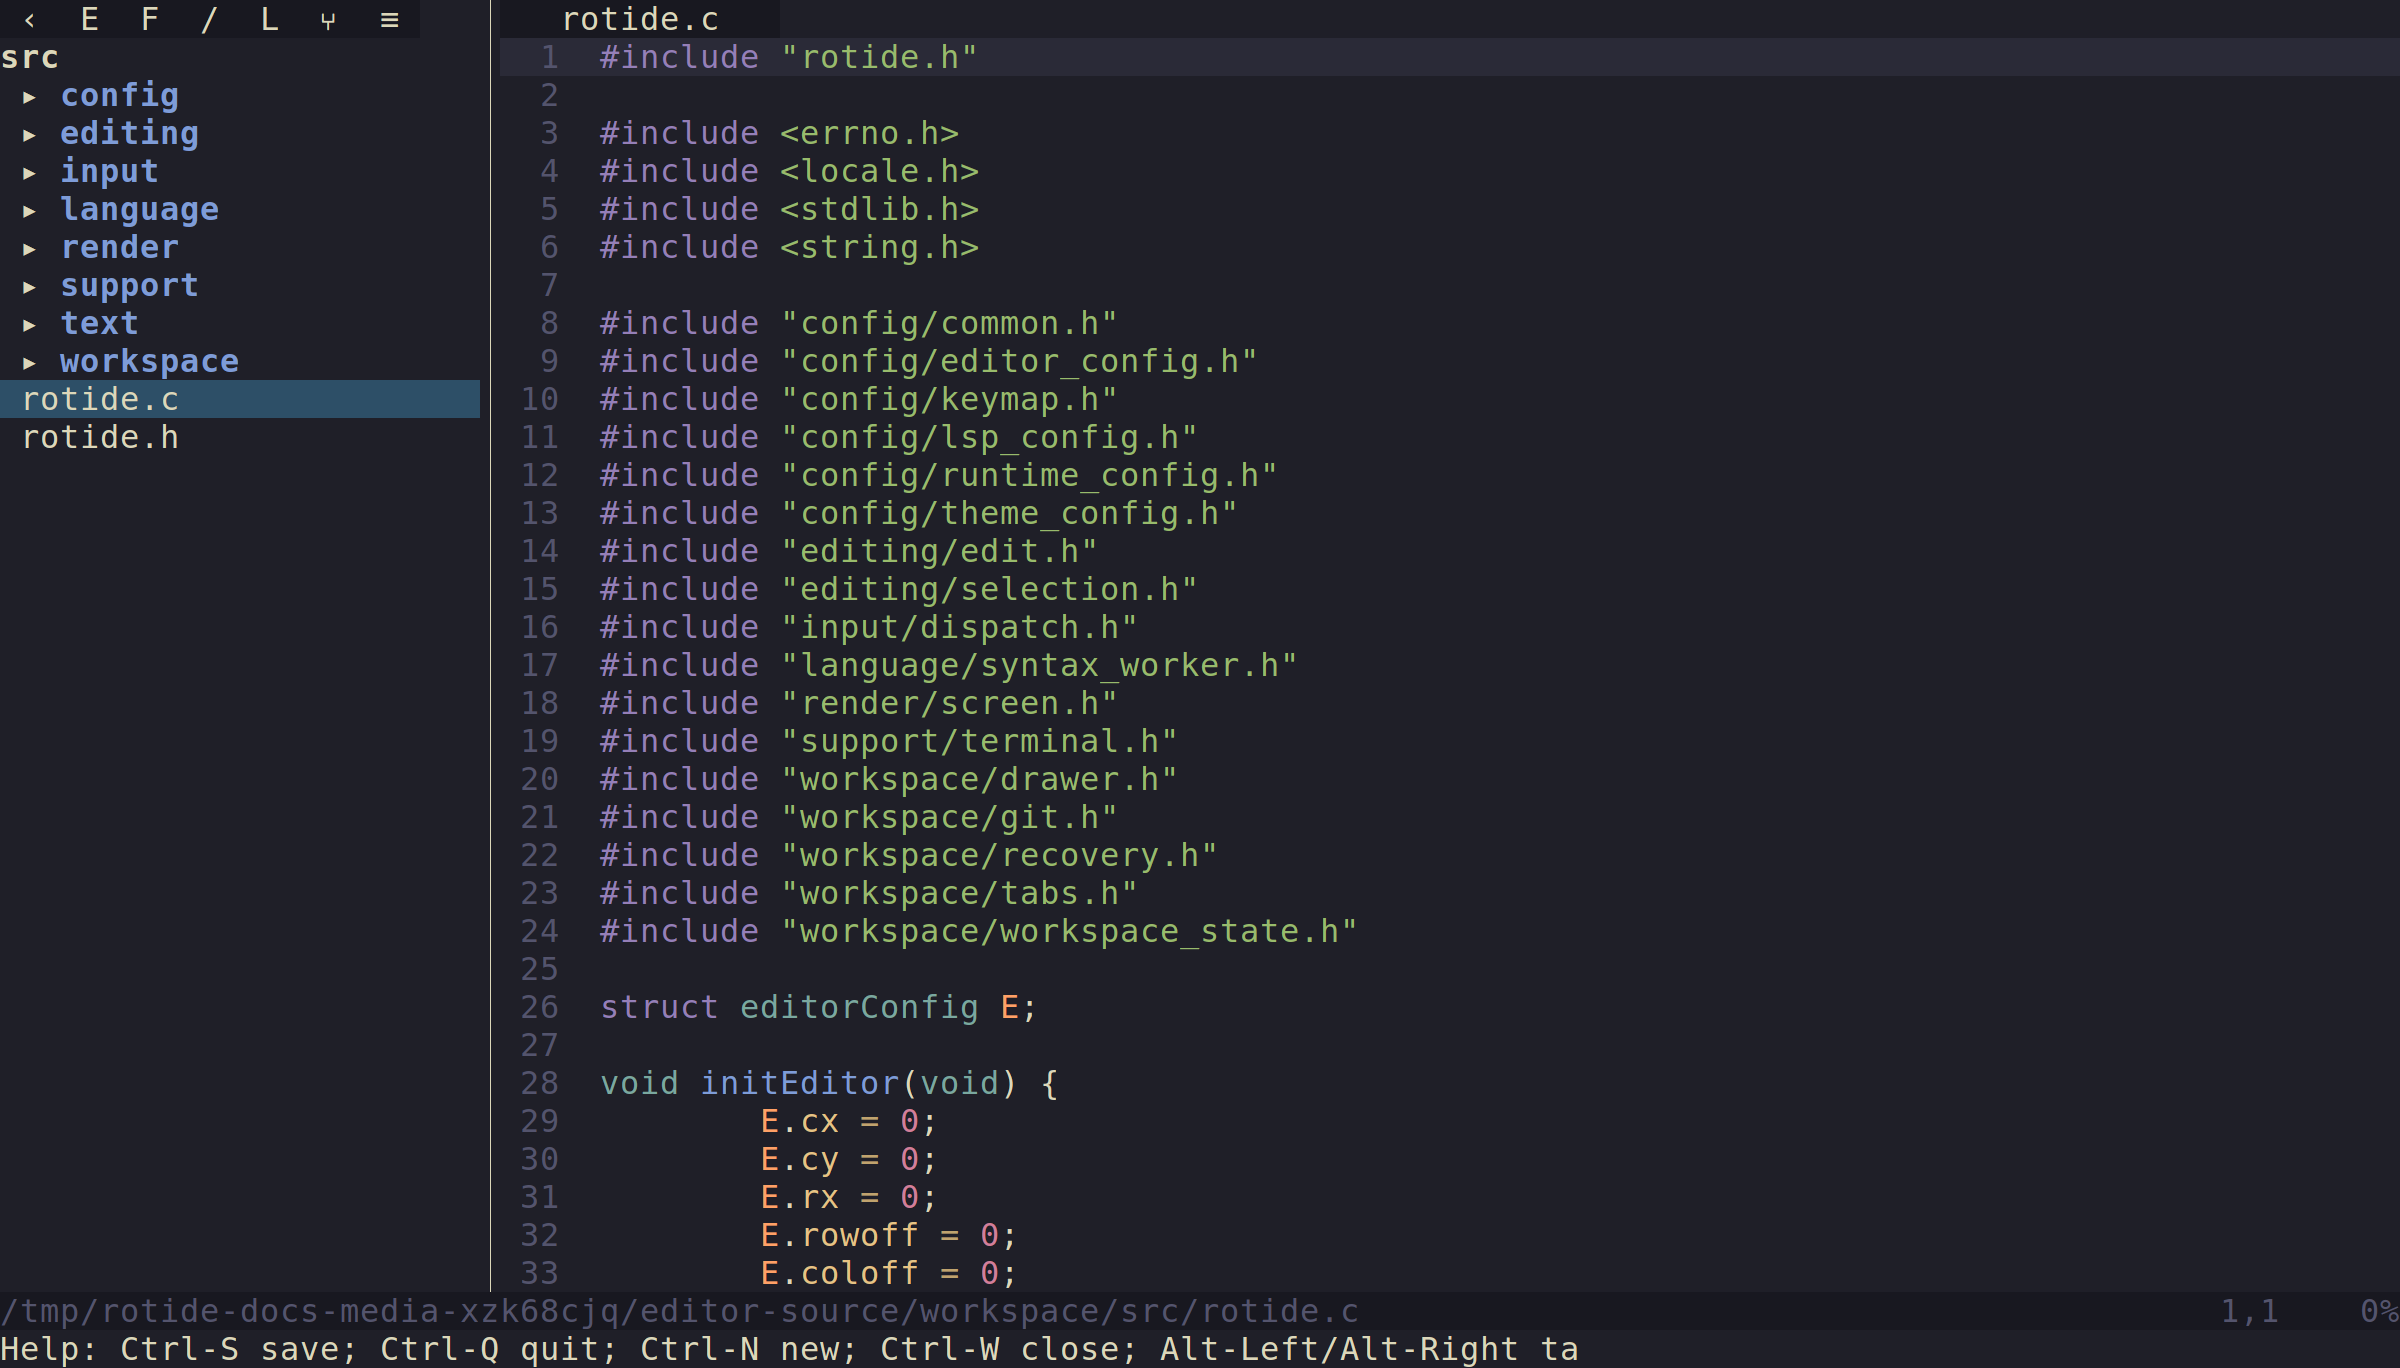
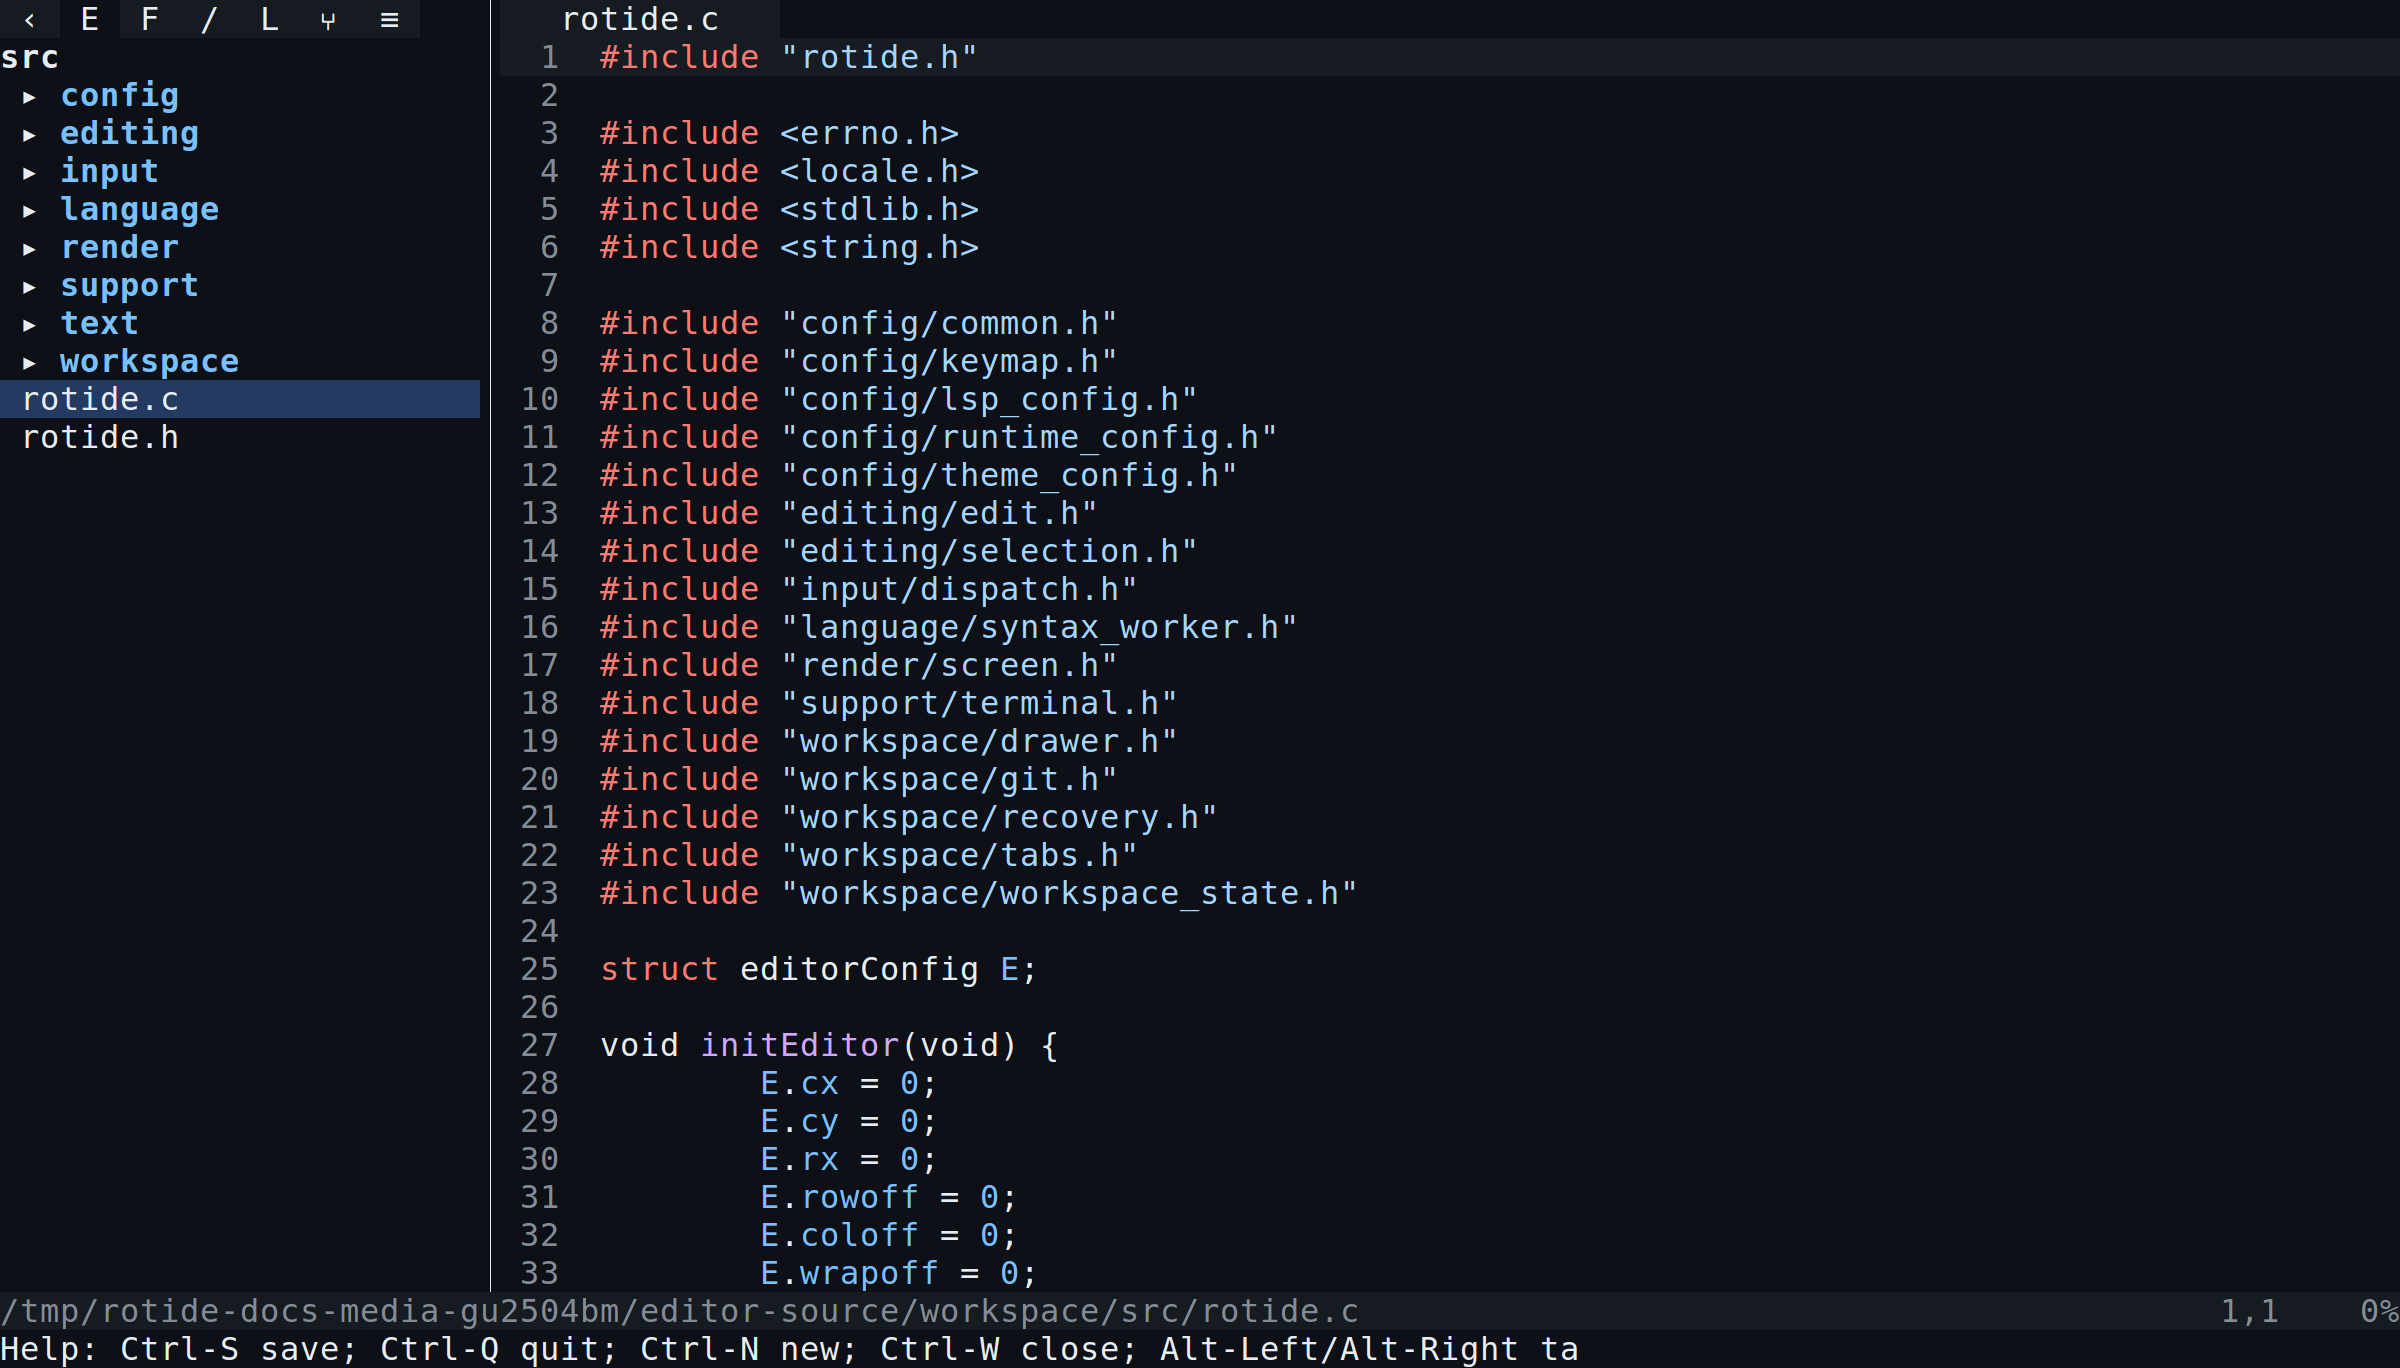
improve docs generation

diff --git a/scripts/capture_docs_media.py b/scripts/capture_docs_media.py
@@ -23,6 +23,26 @@ ROTIDE_BIN = REPO_ROOT / "rotide"
 CAPTURE_WIDTH = 2560
 CAPTURE_HEIGHT = 1520
 CAPTURE_FONT_SIZE = 32
+DEFAULT_CAPTURE_THEME = "github-dark"
+
+BUILTIN_THEMES: tuple[tuple[str, str], ...] = (
+    ("terminal", "Terminal ANSI"),
+    ("a11y-dark", "A11y Dark"),
+    ("a11y-light", "A11y Light"),
+    ("acme", "Acme"),
+    ("silentium", "Silentium"),
+    ("256noir", "256noir"),
+    ("github-light", "GitHub Light"),
+    ("github-dark", "GitHub Dark"),
+    ("modus-operandi", "Modus Operandi"),
+    ("modus-operandi-tinted", "Modus Operandi Tinted"),
+    ("modus-vivendi", "Modus Vivendi"),
+    ("modus-vivendi-tinted", "Modus Vivendi Tinted"),
+    ("molokai", "Molokai"),
+    ("kanagawa-wave", "Kanagawa Wave"),
+    ("kanagawa-dragon", "Kanagawa Dragon"),
+    ("kanagawa-lotus", "Kanagawa Lotus"),
+)
 
 COMMON_CONFIG_TEMPLATE = """\
 [editor]
@@ -63,7 +83,7 @@ class Scene:
     output: str
     description: str
     tape_body: tuple[str, ...]
-    theme: str = "kanagawa-wave"
+    theme: str = DEFAULT_CAPTURE_THEME
     lsp_scene: bool = False
     required_commands: tuple[str, ...] = ()
     open_file: str = "src/rotide.c"
@@ -85,7 +105,7 @@ def vhs_run(command: str) -> tuple[str, ...]:
     )
 
 
-SCENES: tuple[Scene, ...] = (
+BASE_SCENES: tuple[Scene, ...] = (
     Scene(
         name="editor-source",
         output="editor-source.png",
@@ -180,25 +200,22 @@ SCENES: tuple[Scene, ...] = (
         ),
         git_repo=True,
     ),
-    Scene(
-        name="theme-kanagawa-wave",
-        output="theme-kanagawa-wave.png",
-        description="Kanagawa Wave theme applied to the same RotIDE source fixture.",
-        tape_body=(
-            "Sleep 1600ms",
-        ),
-        theme="kanagawa-wave",
-    ),
-    Scene(
-        name="theme-modus-operandi",
-        output="theme-modus-operandi.png",
-        description="Modus Operandi theme applied to the same RotIDE source fixture.",
-        tape_body=(
-            "Sleep 1600ms",
-        ),
-        theme="modus-operandi",
-    ),
 )
+
+THEME_SCENES: tuple[Scene, ...] = tuple(
+    Scene(
+        name=f"theme-{theme_name}",
+        output=f"theme-{theme_name}.png",
+        description=f"{theme_label} theme applied to the same RotIDE source fixture.",
+        tape_body=(
+            "Sleep 1600ms",
+        ),
+        theme=theme_name,
+    )
+    for theme_name, theme_label in BUILTIN_THEMES
+)
+
+SCENES: tuple[Scene, ...] = BASE_SCENES + THEME_SCENES
 
 
 def parse_args() -> argparse.Namespace:
@@ -377,8 +394,13 @@ def write_config(home: Path, scene: Scene) -> Path:
     config_dir.mkdir(parents=True, exist_ok=True)
     path = config_dir / "config.toml"
     if scene.full_config:
-        path.write_text((REPO_ROOT / "config.toml.example").read_text(encoding="utf-8"),
-                encoding="utf-8")
+        config_text = (REPO_ROOT / "config.toml.example").read_text(encoding="utf-8")
+        default_theme_selector = '[theme]\nname = "terminal"'
+        if default_theme_selector not in config_text:
+            raise SystemExit("config.toml.example no longer has the expected [theme] default")
+        config_text = config_text.replace(default_theme_selector,
+                f'[theme]\nname = "{scene.theme}"', 1)
+        path.write_text(config_text, encoding="utf-8")
     else:
         path.write_text(COMMON_CONFIG_TEMPLATE.format(
             theme=scene.theme,

diff --git a/README.md b/README.md
@@ -10,7 +10,7 @@ RotIDE is under active development. Core editing, tabs, drawer navigation, searc
 
 ## Screenshots
 
-The full docs media set can be regenerated with `make docs-media`. To render only the screenshots that do not require language servers, run `make docs-media DOCS_MEDIA_FLAGS=--skip-lsp`.
+The full docs media set can be regenerated with `make docs-media`. To render only the screenshots that do not require language servers, run `make docs-media DOCS_MEDIA_FLAGS=--skip-lsp`. Feature screenshots use `github-dark`; theme screenshots use the named theme.
 
 - [Project drawer](docs/media/screenshots/drawer-tree.png): file tree navigation over a full RotIDE fixture workspace.
 - [Project search](docs/media/screenshots/project-search.png): project-wide text search results previewing matches in source.
@@ -18,8 +18,24 @@ The full docs media set can be regenerated with `make docs-media`. To render onl
 - [Clangd Problems drawer](docs/media/screenshots/lsp-clang-problems.png): C diagnostics from `clangd` in the LSP drawer.
 - [Settings config](docs/media/screenshots/settings-config.png): editable `~/.rotide/config.toml` with the full documented settings file.
 - [Git changes](docs/media/screenshots/git-changes.png): the Git drawer opening a generated diff tab for a modified source file.
-- [Kanagawa Wave theme](docs/media/screenshots/theme-kanagawa-wave.png): the same source fixture under `kanagawa-wave`.
-- [Modus Operandi theme](docs/media/screenshots/theme-modus-operandi.png): the same source fixture under `modus-operandi`.
+
+Theme showcase:
+[terminal](docs/media/screenshots/theme-terminal.png),
+[a11y-dark](docs/media/screenshots/theme-a11y-dark.png),
+[a11y-light](docs/media/screenshots/theme-a11y-light.png),
+[acme](docs/media/screenshots/theme-acme.png),
+[silentium](docs/media/screenshots/theme-silentium.png),
+[256noir](docs/media/screenshots/theme-256noir.png),
+[github-light](docs/media/screenshots/theme-github-light.png),
+[github-dark](docs/media/screenshots/theme-github-dark.png),
+[modus-operandi](docs/media/screenshots/theme-modus-operandi.png),
+[modus-operandi-tinted](docs/media/screenshots/theme-modus-operandi-tinted.png),
+[modus-vivendi](docs/media/screenshots/theme-modus-vivendi.png),
+[modus-vivendi-tinted](docs/media/screenshots/theme-modus-vivendi-tinted.png),
+[molokai](docs/media/screenshots/theme-molokai.png),
+[kanagawa-wave](docs/media/screenshots/theme-kanagawa-wave.png),
+[kanagawa-dragon](docs/media/screenshots/theme-kanagawa-dragon.png),
+and [kanagawa-lotus](docs/media/screenshots/theme-kanagawa-lotus.png).
 
 ## Quick Start
 

diff --git a/docs/media/screenshots/README.md b/docs/media/screenshots/README.md
@@ -1,10 +1,72 @@
 # RotIDE Screenshots
 
-This directory is populated by:
+Regenerate:
 
 ```bash
 make docs-media
+make docs-media DOCS_MEDIA_FLAGS=--skip-lsp
 ```
 
-The generator uses VHS and writes PNG files for the screenshots linked from the
-main README. The PNG files are intended to be committed after regeneration.
+## Features
+
+### Editor Source
+
+![Editor source](editor-source.png)
+
+### Project Drawer
+
+![Project drawer](drawer-tree.png)
+
+### Project Search
+
+![Project search](project-search.png)
+
+### JavaScript Autocomplete
+
+![JavaScript autocomplete](lsp-autocomplete-js.png)
+
+### Clangd Problems
+
+![Clangd problems](lsp-clang-problems.png)
+
+### Settings
+
+![Settings config](settings-config.png)
+
+### Git Changes
+
+![Git changes](git-changes.png)
+
+## Themes
+
+| `terminal` | `a11y-dark` |
+| --- | --- |
+| ![terminal](theme-terminal.png) | ![a11y-dark](theme-a11y-dark.png) |
+
+| `a11y-light` | `acme` |
+| --- | --- |
+| ![a11y-light](theme-a11y-light.png) | ![acme](theme-acme.png) |
+
+| `silentium` | `256noir` |
+| --- | --- |
+| ![silentium](theme-silentium.png) | ![256noir](theme-256noir.png) |
+
+| `github-light` | `github-dark` |
+| --- | --- |
+| ![github-light](theme-github-light.png) | ![github-dark](theme-github-dark.png) |
+
+| `modus-operandi` | `modus-operandi-tinted` |
+| --- | --- |
+| ![modus-operandi](theme-modus-operandi.png) | ![modus-operandi-tinted](theme-modus-operandi-tinted.png) |
+
+| `modus-vivendi` | `modus-vivendi-tinted` |
+| --- | --- |
+| ![modus-vivendi](theme-modus-vivendi.png) | ![modus-vivendi-tinted](theme-modus-vivendi-tinted.png) |
+
+| `molokai` | `kanagawa-wave` |
+| --- | --- |
+| ![molokai](theme-molokai.png) | ![kanagawa-wave](theme-kanagawa-wave.png) |
+
+| `kanagawa-dragon` | `kanagawa-lotus` |
+| --- | --- |
+| ![kanagawa-dragon](theme-kanagawa-dragon.png) | ![kanagawa-lotus](theme-kanagawa-lotus.png) |
